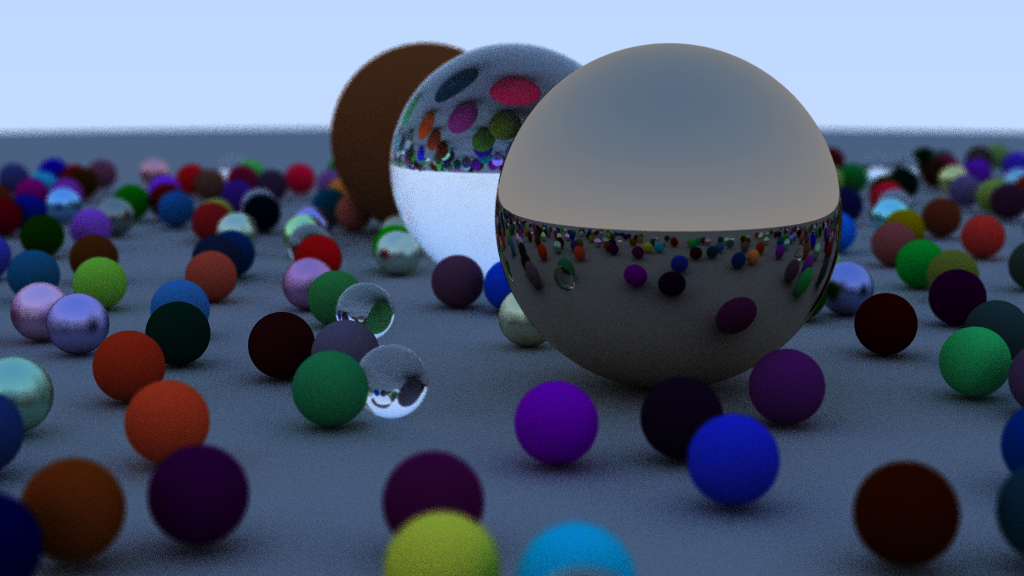
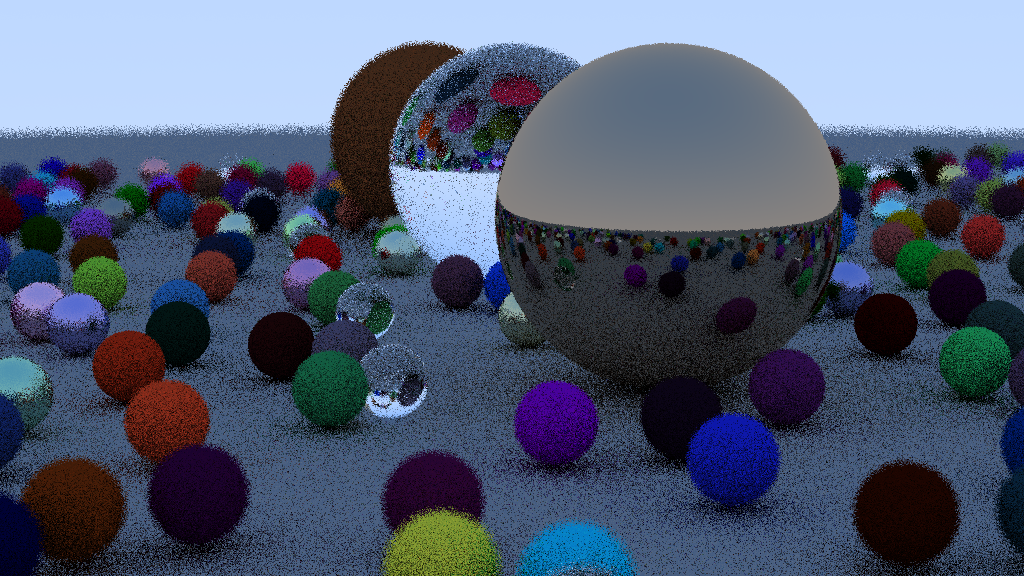
Added: multi-threading

Changed region(s): [[0.0, 0.0625, 1.0, 1.0]]

diff --git a/src/headers/camera/camera.cpp b/src/headers/camera/camera.cpp
@@ -38,40 +38,63 @@ void camera::show_img() {
 void camera::render(const hittable& world) {
     initialize();
 
-    pixel_grid.resize(img_height * img_width);
-
-    int index = 1;
-
     int total_pixels = img_height * img_width;
 
-    for (auto& pixel : pixel_grid) {
+    pixel_grid.resize(total_pixels);
 
-        std::clog << "\rPercentage: " << int((index * 100) / total_pixels) << "% " << std::flush;
+    int thread_load = total_pixels / threads;
 
-        color pixel_color(0, 0, 0);
+    for (int j = 1; j <= threads; j++) {
+        worker_threads.push_back(std::thread([&, j] {
 
-        int x = (index - 1) % img_width;
-        int y = (index - 1) / img_width;
+            int thread_id = j;
 
-        for (int sample = 0; sample < samples_per_pixel; sample++) {
-            ray r = get_ray(x, y);
-            pixel_color += ray_color(r, max_depth, world);
-        }
+            for (int i = 0; i < thread_load; i++) {
 
-        write_color(&pixel, pixel_color * pixel_samples_scale);
+                int offset = (thread_id - 1) * thread_load;
 
-        this->i_image.setPixel(x, y, pixel);
+                color pixel_color(0, 0, 0);
 
-        index++;
+                int x = i % img_width;
+                int y = (i + offset) / img_width;
+
+                for (int sample = 0; sample < samples_per_pixel; sample++) {
+                    ray r = get_ray(x, y);
+                    pixel_color += ray_color(r, max_depth, world);
+                }
+
+                write_color(&pixel_grid[y * img_width + x], pixel_color * pixel_samples_scale);
+
+                this->i_image.setPixel(x, y, pixel_grid[y * img_width + x]);
+
+                //debug
+                /*printf(*/
+                /*    "Thread_id: %d,\nThread_load: %d,\nOffset: %d,\nPosition: (%d, %d),\nColor: (%d, %d, %d),\n",*/
+                /*    thread_id,*/
+                /*    thread_load,*/
+                /*    offset,*/
+                /*    x, y,*/
+                /*    pixel_grid[i + offset].r, pixel_grid[i + offset].g, pixel_grid[i + offset].b*/
+                /*);*/
+            }
+
+        }));
     }
+
+    //waiting for threads
+    std::for_each(
+        worker_threads.begin(),
+        worker_threads.end(),
+        [](std::thread &t) {
+            t.join();
+        }
+    );
 
     // optionally save the image
     if (this->img_gen == true)
         i_image.saveToFile("rendered_img.png");
 
-    std::clog << "done\n";
-
-   this->show_img();
+    this->show_img();
 }
 
 void camera::initialize() {

diff --git a/src/headers/camera/camera.hpp b/src/headers/camera/camera.hpp
@@ -7,7 +7,10 @@
 #include "SFML/Graphics.hpp"
 
 #include "../main_header.hpp"
+
 #include <vector>
+#include <thread>
+#include <algorithm>
 
 class camera {
     public:
@@ -22,6 +25,8 @@ class camera {
         point3 lookat            = point3(0, 0, -1);
         vec3   vup               = vec3(0, 1, 0);
 
+        int threads = 1;
+
         double defocus_angle = 0;
         double focus_dist = 10;
 
@@ -32,6 +37,7 @@ class camera {
     private:
 
         std::vector<sf::Color> pixel_grid;
+        std::vector<std::thread> worker_threads;
         int window_width = 1024;
         int img_height;               // Rendered image height
         point3 center;                   // Camera center

diff --git a/src/main.cpp b/src/main.cpp
@@ -57,8 +57,10 @@ int main () {
 
     cam.aspect_ratio      = 16.0 / 9.0;
     cam.img_width = 1024;
-    cam.samples_per_pixel = 200;
+    cam.samples_per_pixel = 2;
     cam.max_depth         = 50;
+
+    cam.threads = 4;
     cam.img_gen = true;
 
     cam.vfov     = 20;
